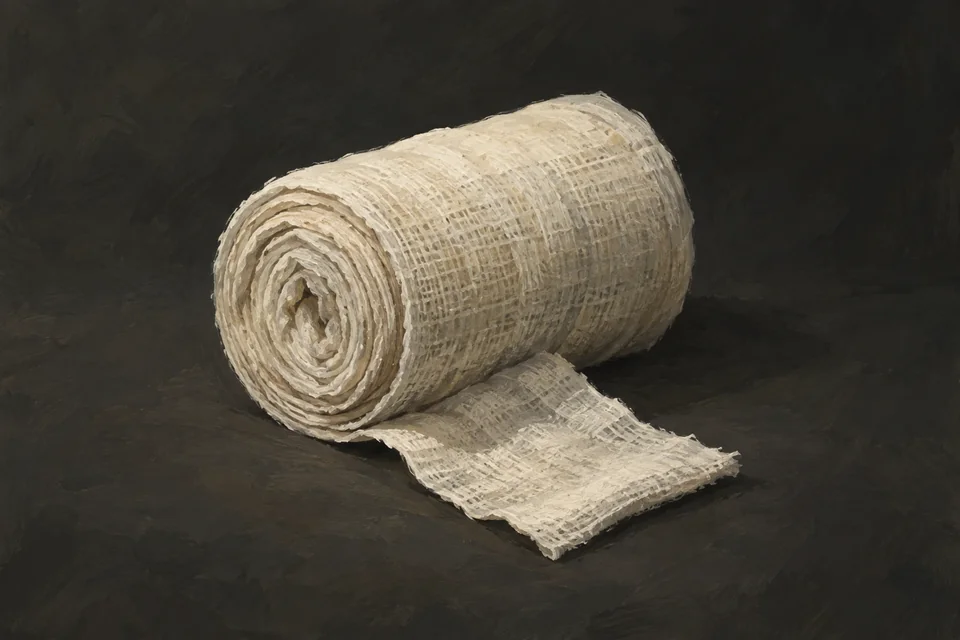
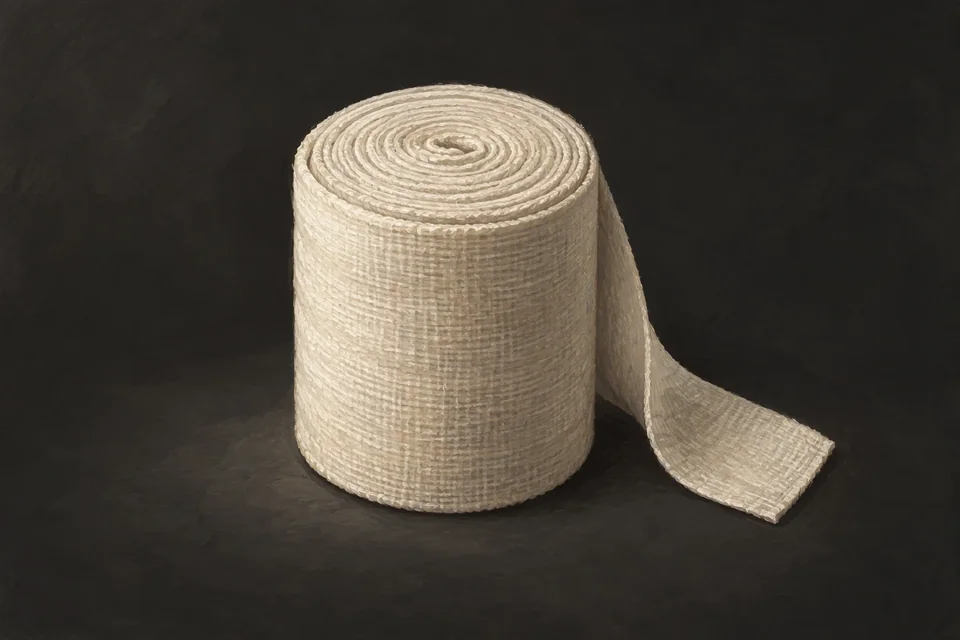
fix(ui): use selected bandage and air-strike artwork

Changed region(s): [[0.2188, 0.125, 0.875, 0.875], [0.0, 0.4688, 0.0625, 0.5312]]

diff --git a/src/ui/market-art.ts b/src/ui/market-art.ts
@@ -20,10 +20,10 @@ export const MARKET_ART: Record<SupplyId, { src: string; alt: string }> = {
   },
   bandage: {
     src: '/images/market/bandage.webp',
-    alt: 'Painted rolled off-white field dressing with a short loose gauze tail.',
+    alt: 'Painted upright off-white field dressing with a complete spiral top and a loose tail to the side.',
   },
   carpet: {
     src: '/images/market/carpet.webp',
-    alt: 'Painted olive twin-propeller bomber representing a radio-called carpet-bomb strike.',
+    alt: 'Painted line of bomb explosions along an empty industrial avenue, with a twin-propeller bomber overhead.',
   },
 };

diff --git a/assets/ui/market/README.md b/assets/ui/market/README.md
@@ -16,20 +16,26 @@ interactive 3D inspection models; small card silhouettes remain SVGs.
 - Optimization: RGB conversion, Lanczos resize to 960 × 640, WebP quality 85,
   method 6 using Pillow. No cropping, compositing or retouching.
 
-Bandage and Ammo Refill reuse the approved painted studies. Grenade Pack depicts
-one intact M67-style grenade, matching the purchase of one grenade. Armour Plate
-shows one standalone ceramic insert rather than a vest. Carpet Bomb is represented
-by a conventional twin-propeller bomber, matching `src/radio/index.ts`, not a modern
-stealth jet. The aircraft is illustrative support artwork, not a new 3D asset.
+Ammo Refill reuses the approved painted study. After reviewing replacement
+prototypes, the owner selected **Bandage B: upright**, with a complete spiral top,
+and **Strike B: ground-level blasts**, showing a line of explosions along an empty
+industrial avenue with a conventional twin-propeller bomber overhead. Carpet Bomb
+therefore depicts the air attack itself, not an isolated aircraft. The twin-prop
+silhouette matches `src/radio/index.ts`; this is illustrative support artwork, not
+a new 3D asset. Grenade Pack depicts one intact M67-style grenade, matching the
+purchase of one grenade. Armour Plate shows one standalone ceramic insert, not a
+vest.
 
 ## Future additions
 
 Use the composition and painted-art direction recorded in the existing prompts:
 three-quarter view, clear isolated silhouette, restrained ivory/olive/ochre palette,
 deliberate brushwork, charcoal background, simplified material detail, no lettering,
-logos, people or battlefield effects. Add an item-specific subject that accurately
-represents the catalog purchase. Review the result at actual inspection-panel size,
-then optimize it with the same settings and update its provenance and alternative
+logos or people. Physical supplies remain isolated objects; support abilities may
+use a painted action scene to convey their effect, such as the selected air-strike
+illustration. Add an item-specific subject that accurately represents the catalog
+purchase. Review the result at actual inspection-panel size, then optimize it with
+the same settings and update its provenance and alternative
 text. Generations are stochastic; prompts and settings document intent, not an
 exactly reproducible image.
 
